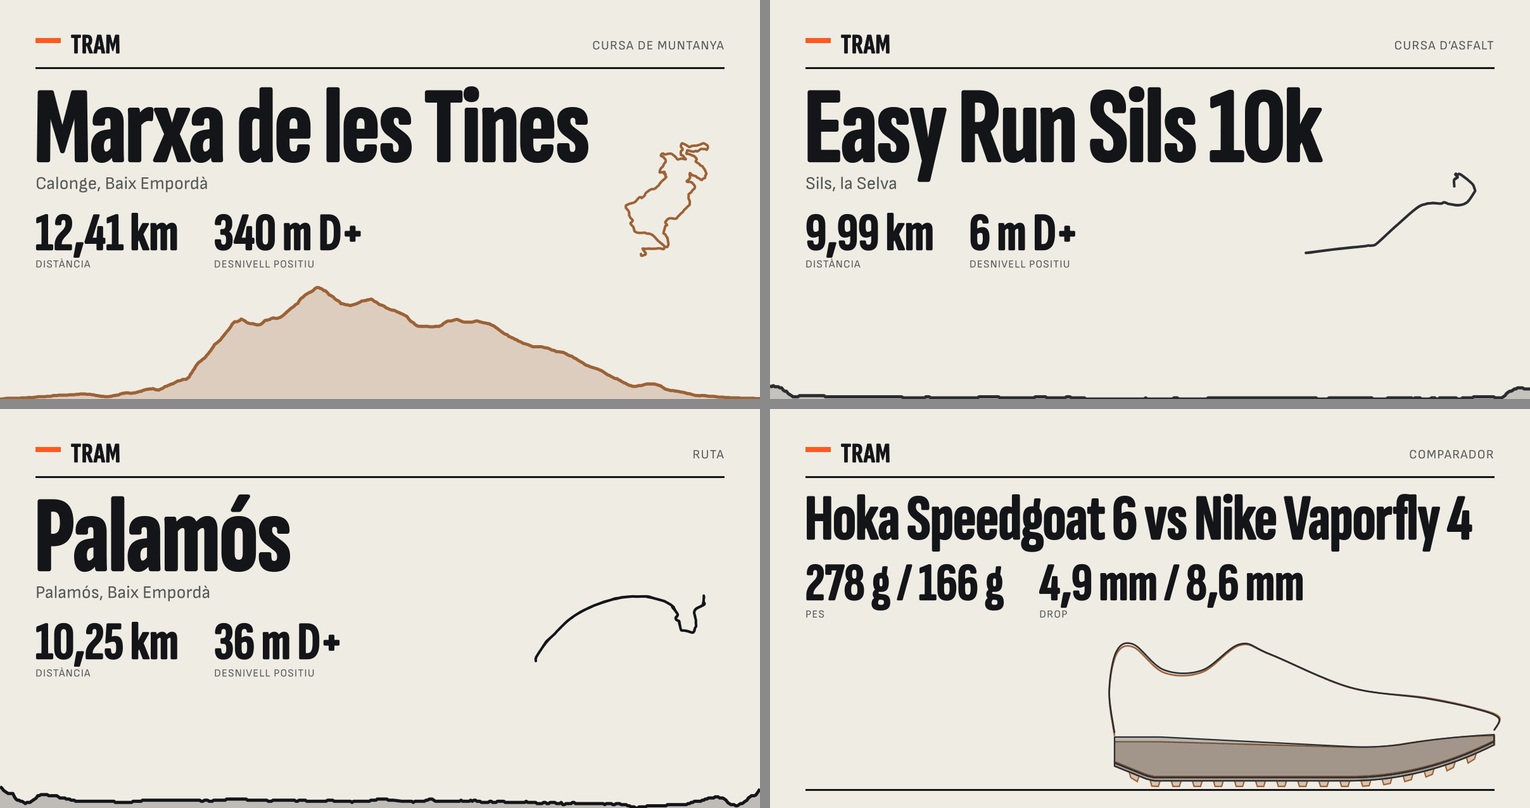
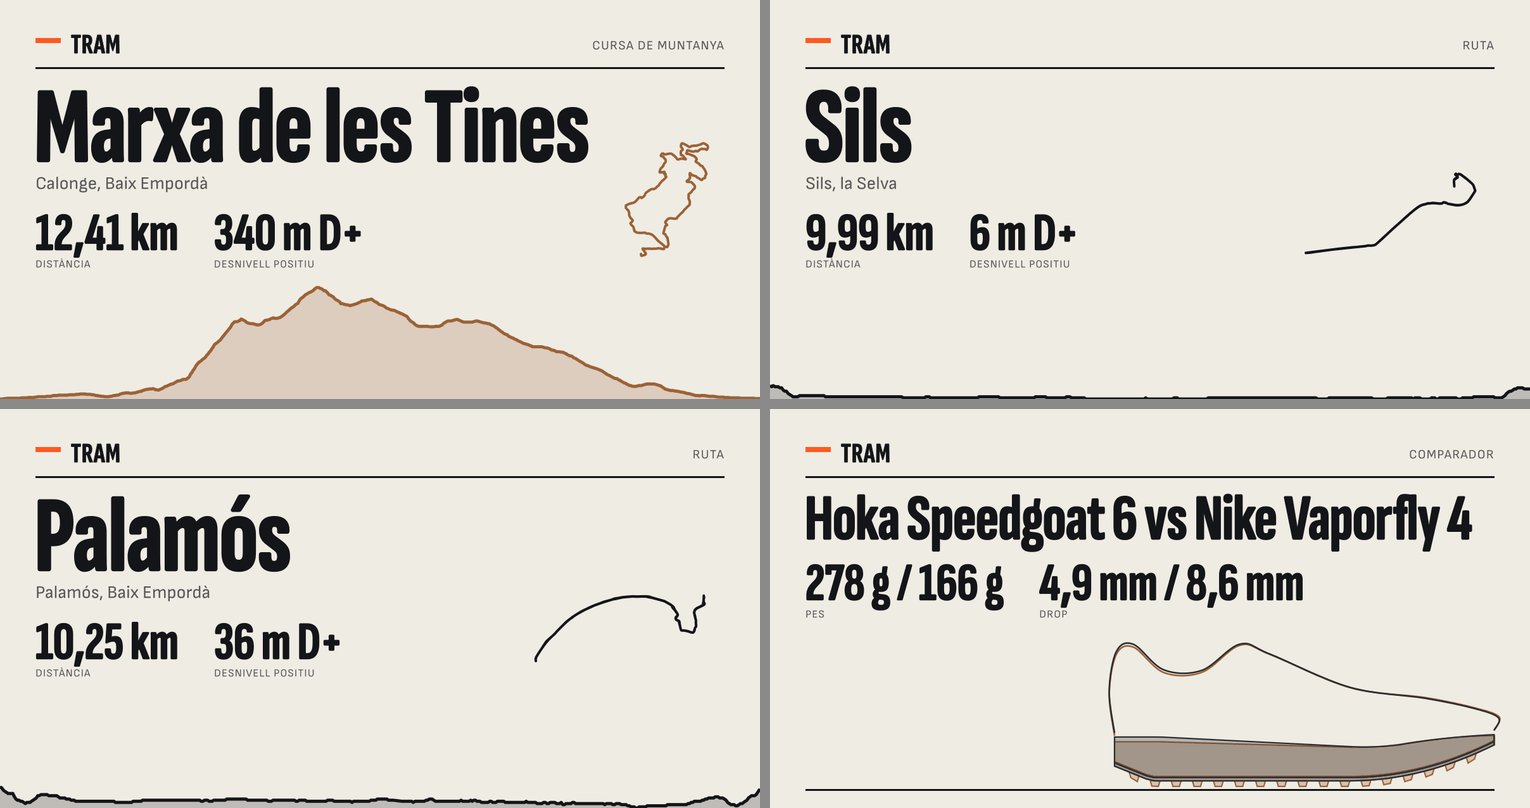
The run at Sils was a training run, not a race: it is a route and nothing else [update-visual]
- The race made of it is gone. The route says what the outing was: a training run at Sils,
  and the Marxa de les Tines at Calonge.
- One race is left, the mountain one; the road race Phase 1 asks for is still missing, and
  the phase status says so.

Changed region(s): [[0.5222, 0.0928, 0.8601, 0.2166], [0.9216, 0.0309, 0.983, 0.0619]]

diff --git a/apps/web/tests/site.spec.ts b/apps/web/tests/site.spec.ts
@@ -12,7 +12,7 @@ const PAGES = {
   compare: COMPARE,
 };
 // These carry a route to run: their long scroll and their 3D are covered by the M2 tests.
-const ROUTE_PAGES = { 'race-trail': '/ca/curses/marxa-de-les-tines/', 'race-road': '/ca/curses/easy-run-sils-10k/', 'route-flat': '/ca/rutes/sils/' };
+const ROUTE_PAGES = { 'race-trail': '/ca/curses/marxa-de-les-tines/', 'route-flat': '/ca/rutes/sils/' };
 
 const open = async (page: Page, path: string): Promise<void> => {
   await page.goto(path);
@@ -46,7 +46,7 @@ for (const [name, path] of Object.entries({ ...PAGES, ...ROUTE_PAGES })) {
 test.describe('Sample content', () => {
   test('a sample race says so, is not indexable and is described to no search engine', async ({ page }) => {
     await page.emulateMedia({ reducedMotion: 'reduce' });
-    await open(page, ROUTE_PAGES['race-road']);
+    await open(page, ROUTE_PAGES['race-trail']);
     await expect(page.locator('meta[name="robots"]')).toHaveAttribute('content', 'noindex, nofollow');
     await expect(page.locator('script[type="application/ld+json"]')).toHaveCount(0);
     await expect(page.locator('footer')).toContainText('són de mostra');
@@ -62,6 +62,10 @@ test.describe('Sample content', () => {
     await expect(page.locator('meta[name="robots"]')).toHaveCount(0);
     await expect(main(page)).toContainText('9,99 km');
     await expect(main(page).getByText('Asfalt', { exact: true })).toHaveCount(0);
+    // A training run is a route and says what it was: it is not listed as a race.
+    await expect(main(page)).toContainText('Gravada en un entrenament suau: «Easy Run Sils 10k».');
+    await open(page, PAGES.races);
+    await expect(main(page)).not.toContainText('Sils');
   });
 
   test('the shoe pages are kept from search engines until their names are cleared', async ({ page }) => {
@@ -74,11 +78,11 @@ test.describe('Sample content', () => {
 });
 
 test.describe('Home and lists', () => {
-  test('the home leads to both races, every route and the 3D of a route', async ({ page }) => {
+  test('the home leads to the race, every route and the 3D of a route', async ({ page }) => {
     await open(page, PAGES.home);
     await expect(page.getByRole('img', { name: /Plànol de Palamós/ })).toBeVisible();
     await expect(page.getByRole('link', { name: /Recorre Calonge en 3D/ })).toHaveAttribute('href', '/ca/rutes/calonge/');
-    await expect(page.locator('main a[href^="/ca/curses/"][href$="/"]:not([href="/ca/curses/"])')).toHaveCount(2);
+    await expect(page.locator('main a[href^="/ca/curses/"][href$="/"]:not([href="/ca/curses/"])')).toHaveCount(1);
     await expect(page.locator('a[href="/ca/rutes/sils/"]')).toHaveCount(1);
     await expect(page.locator('a[href="/ca/rutes/palamos/"]')).toHaveCount(1);
   });
@@ -88,11 +92,11 @@ test.describe('Home and lists', () => {
     await expect(page.locator('header nav a[aria-current="page"]')).toHaveText('Sabatilles');
   });
 
-  test('a flat race is drawn flat next to a mountain one', async ({ page }) => {
-    await open(page, PAGES.races);
-    // Both silhouettes share one vertical scale: the flat one uses a sliver of its box.
+  test('a flat route is drawn flat next to a mountain one', async ({ page }) => {
+    await open(page, PAGES.routes);
+    // Every silhouette shares one vertical scale: a flat one uses a sliver of its box.
     const heights = await page.locator('main a svg.silhouette path:first-of-type').evaluateAll((paths) => paths.map((p) => (p as SVGPathElement).getBBox().height));
-    expect(heights).toHaveLength(2);
+    expect(heights).toHaveLength(3);
     expect(Math.min(...heights)).toBeLessThan(Math.max(...heights) / 8);
   });
 });

diff --git a/apps/web/src/content/index.ts b/apps/web/src/content/index.ts
@@ -21,6 +21,8 @@ export interface Route {
   source: 'gpx' | 'organizer' | 'editorial';
   /** Where the track comes from, in words, for the page. */
   credit: string;
+  /** What the outing was, when it is known: said on the page of the route. */
+  origin?: string;
   isPlaceholder: boolean;
 }
 
@@ -51,9 +53,9 @@ export interface Race {
 const GPX_CREDIT = 'Recorregut: GPX d’una sortida real. Només se’n publiquen la distància, l’altitud i el traçat.';
 
 export const ROUTES: Route[] = [
-  { slug: 'calonge', name: 'Calonge', place: 'Calonge, Baix Empordà', profile: CALONGE, plate: calongePlate as unknown as Plate, source: 'gpx', credit: GPX_CREDIT, isPlaceholder: false },
+  { slug: 'calonge', name: 'Calonge', place: 'Calonge, Baix Empordà', profile: CALONGE, plate: calongePlate as unknown as Plate, source: 'gpx', credit: GPX_CREDIT, origin: 'Gravada a la Marxa de les Tines.', isPlaceholder: false },
   { slug: 'palamos', name: 'Palamós', place: 'Palamós, Baix Empordà', profile: PALAMOS, plate: palamosPlate as unknown as Plate, source: 'gpx', credit: GPX_CREDIT, isPlaceholder: false },
-  { slug: 'sils', name: 'Sils', place: 'Sils, la Selva', profile: SILS, plate: silsPlate as unknown as Plate, source: 'gpx', credit: GPX_CREDIT, isPlaceholder: false },
+  { slug: 'sils', name: 'Sils', place: 'Sils, la Selva', profile: SILS, plate: silsPlate as unknown as Plate, source: 'gpx', credit: GPX_CREDIT, origin: 'Gravada en un entrenament suau: «Easy Run Sils 10k».', isPlaceholder: false },
 ];
 
 // The figures of a course come from its track, never typed by hand.
@@ -62,8 +64,9 @@ function courseOf(name: string, route: string, profile: readonly ProfilePoint[])
   return { name, distanceM: Math.round(summary.distanceKm * 1000), elevationGainM: Math.round(summary.gainM), route };
 }
 
-// Sample races: the routes are real, and so are their names (a march and a training run), but the
-// dates and bibs are not. They exist to build the race page, are marked as placeholders and never reach production.
+// A sample race: its route is real, and so is its name (the march the track was recorded at), but its
+// date and bib are not. It exists to build the race page, is marked as a placeholder and never reaches
+// production. The run at Sils was a training run, not a race: it is a route and nothing else.
 export const RACES: Race[] = [
   {
     slug: 'marxa-de-les-tines',
@@ -79,21 +82,6 @@ export const RACES: Race[] = [
     isPlaceholder: true,
     edition: { year: 2027, startDate: '2027-03-14', status: 'scheduled', registrationUrl: null, bib: 1427 },
     courses: [courseOf('12 km', 'calonge', CALONGE)],
-  },
-  {
-    slug: 'easy-run-sils-10k',
-    // A training run, shown as a race to build the race page with a flat route.
-    name: 'Easy Run Sils 10k',
-    notice: 'Versió de proves: és un entrenament real, un rodatge suau de 10 km a Sils, mostrat com a cursa per provar la pàgina. La data i el dorsal són de mostra.',
-    terrain: 'road',
-    countryCode: 'ES',
-    region: 'Girona',
-    place: 'Sils, la Selva',
-    organizer: null,
-    source: 'editorial',
-    isPlaceholder: true,
-    edition: { year: 2027, startDate: '2027-04-11', status: 'scheduled', registrationUrl: null, bib: 208 },
-    courses: [courseOf('10 km', 'sils', SILS)],
   },
 ];
 

diff --git a/docs/explorations/E14-share-images.md b/docs/explorations/E14-share-images.md
@@ -28,7 +28,7 @@ L'SVG propi. La imatge és gairebé tota dibuix (perfil, traçat, siluetes), que
 - **Una ruta plana es dibuixa plana**: la caixa del perfil val 100 m com a mínim, igual que a la pàgina.
 - **La comparació** porta les dues sabatilles de perfil, una sobre l'altra i taló amb taló, com la radiografia, i pes i drop de totes dues.
 
-![Les imatges de la Marxa de les Tines, Easy Run Sils 10k, la ruta de Palamós i la comparació](E14/og.png)
+![Les imatges de la Marxa de les Tines, la ruta de Sils, la ruta de Palamós i la comparació](E14/og.png)
 
 ## Què no s'ha verificat, i límits
 
@@ -36,4 +36,4 @@ L'SVG propi. La imatge és gairebé tota dibuix (perfil, traçat, siluetes), que
 - **El pes de la lletra no és el de la pàgina.** Els fitxers de font són variables, i la llibreria només en sap dibuixar el pes per defecte: 700 per a la lletra de dorsal (la pàgina fa servir 800) i 400 per al text. La de dorsal s'engruixeix amb un traç del mateix color perquè s'hi acosti. Per tenir el pes exacte caldria afegir una font estàtica.
 - **Només mode clar.** No hi ha versió de nit.
 - **La portada, les llistes i les fitxes de sabatilla no tenen imatge pròpia.**
-- **Les curses de mostra també en tenen**, amb el seu nom. No entren a producció.
+- **La cursa de mostra també en té**, amb el seu nom. No entra a producció.

diff --git a/docs/F1-estat.md b/docs/F1-estat.md
@@ -7,7 +7,7 @@
 | Peça | On | Estat |
 |---|---|---|
 | Portada | `/ca/` | Feta: plànol de Calonge, curses i rutes |
-| Dues curses (muntanya i asfalt) amb visor 3D, perfil i full de resultats | `/ca/curses/marxa-de-les-tines/`, `/ca/curses/easy-run-sils-10k/` | Fetes sobre les dues sortides reals: la Marxa de les Tines (Calonge) i un entrenament a Sils. **Continuen sent de mostra**: els noms són reals, però la data i el dorsal no, i estan marcades `isPlaceholder` |
+| Una cursa de muntanya amb visor 3D, perfil i full de resultats. **Falta la d'asfalt** que demana la fase: la sortida de Sils era un entrenament, no una cursa, i ara només és una ruta | `/ca/curses/marxa-de-les-tines/` | Feta sobre la sortida real a la Marxa de les Tines (Calonge). **Continua sent de mostra**: el nom és real, però la data i el dorsal no, i està marcada `isPlaceholder` |
 | Tres rutes reals | `/ca/rutes/calonge/`, `/ca/rutes/sils/`, `/ca/rutes/palamos/` | Fetes. Palamós és la primera de poble i de costa: s'ha afegit només amb el generador (E18, «Afegir una ruta») |
 | Llistes | `/ca/curses/`, `/ca/rutes/`, `/ca/sabatilles/` | Fetes |
 | Dues sabatilles reals amb radiografia, vista 3D, fitxa tècnica i puntuacions | `/ca/sabatilles/nike/vaporfly-4/`, `/ca/sabatilles/hoka/speedgoat-6/` | Fetes |
